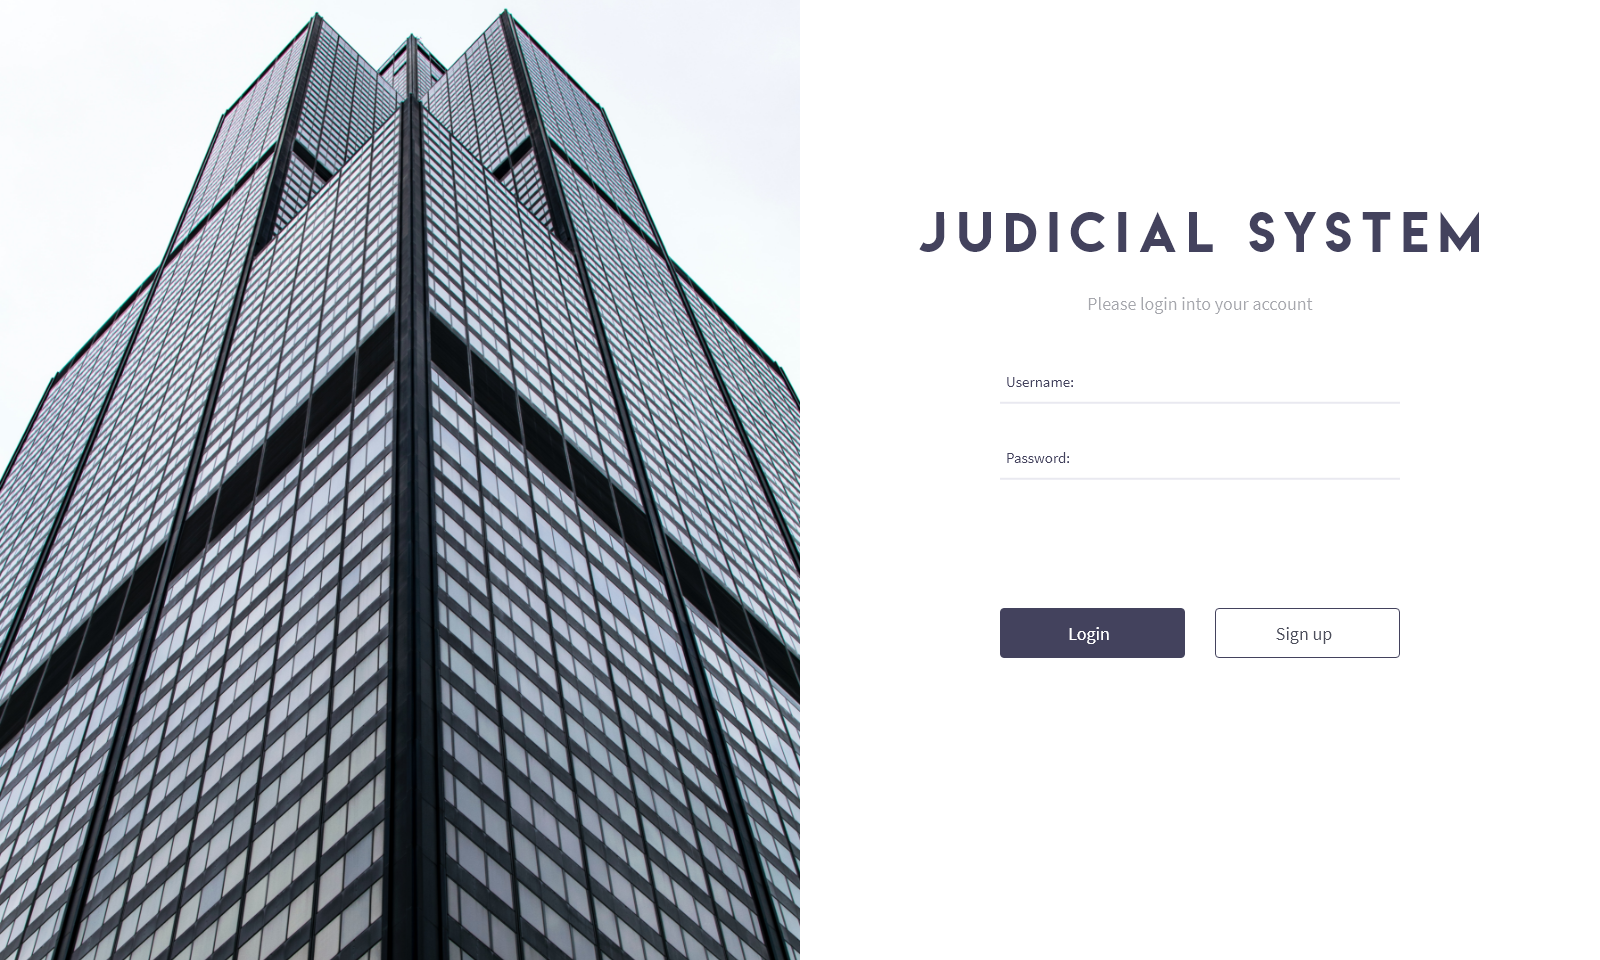
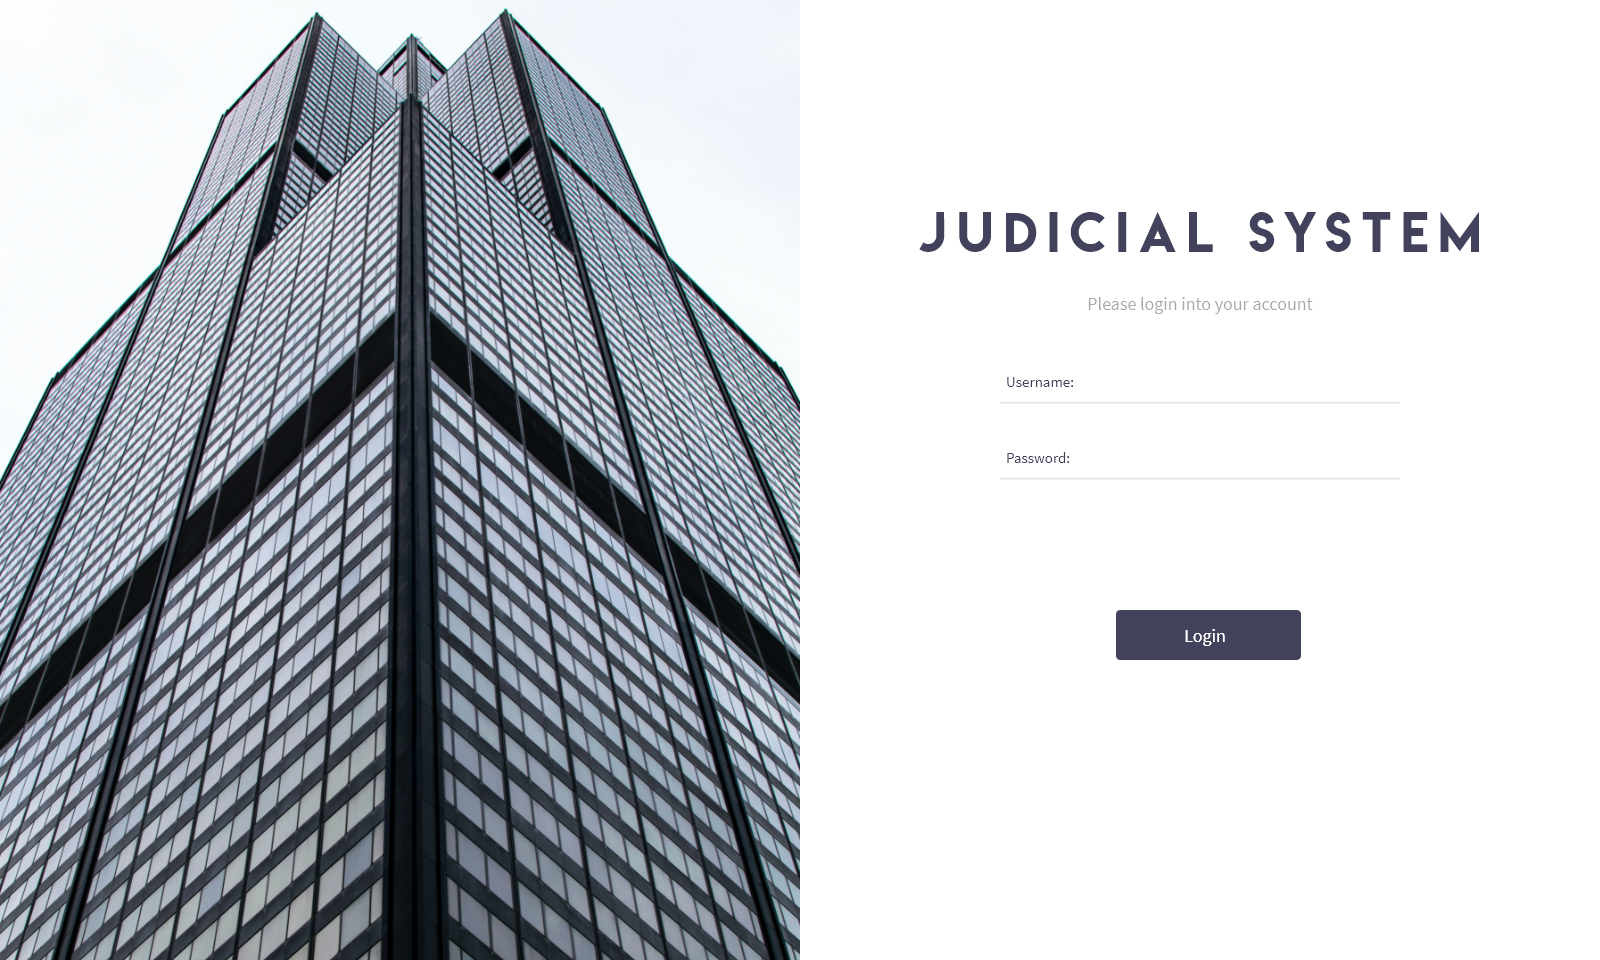
Login Update

Changed region(s): [[0.625, 0.625, 0.8438, 0.6875]]

diff --git a/Client/PythonWindows/login.py b/Client/PythonWindows/login.py
@@ -65,20 +65,14 @@ class Ui_MainWindow(object):
         self.BackgroundLabel_Login.setScaledContents(True)
         self.BackgroundLabel_Login.setObjectName("BackgroundLabel_Login")
         self.LoginButton_Login = QtWidgets.QPushButton(self.frame)
-        self.LoginButton_Login.setGeometry(QtCore.QRect(722, 428, 141, 41))
+        self.LoginButton_Login.setGeometry(QtCore.QRect(806, 430, 141, 41))
         self.LoginButton_Login.setText("")
         self.LoginButton_Login.setFlat(True)
         self.LoginButton_Login.setObjectName("LoginButton_Login")
-        self.SignUpButton_Login = QtWidgets.QPushButton(self.frame)
-        self.SignUpButton_Login.setGeometry(QtCore.QRect(879, 429, 141, 41))
-        self.SignUpButton_Login.setText("")
-        self.SignUpButton_Login.setFlat(True)
-        self.SignUpButton_Login.setObjectName("SignUpButton_Login")
         self.BackgroundLabel_Login.raise_()
         self.UserName_Login.raise_()
         self.Password_Login.raise_()
         self.LoginButton_Login.raise_()
-        self.SignUpButton_Login.raise_()
         MainWindow.setCentralWidget(self.centralwidget)
         self.menubar = QtWidgets.QMenuBar(MainWindow)
         self.menubar.setGeometry(QtCore.QRect(0, 0, 1120, 21))
